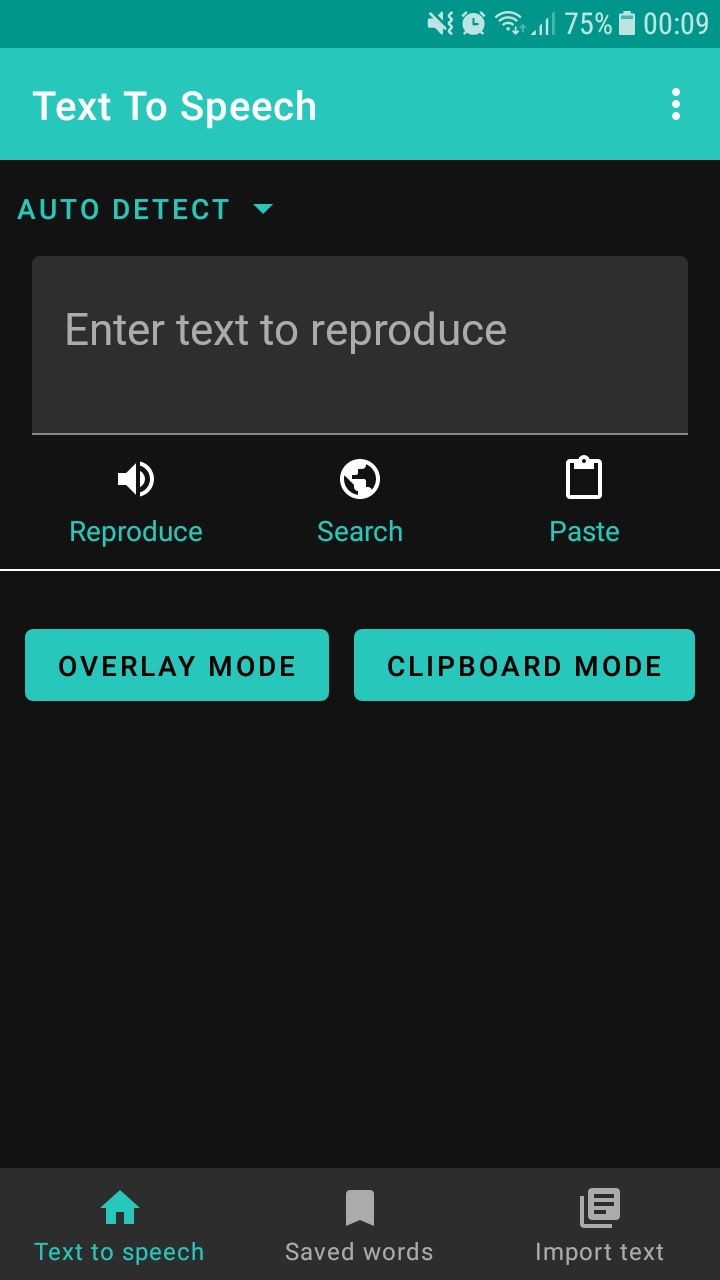
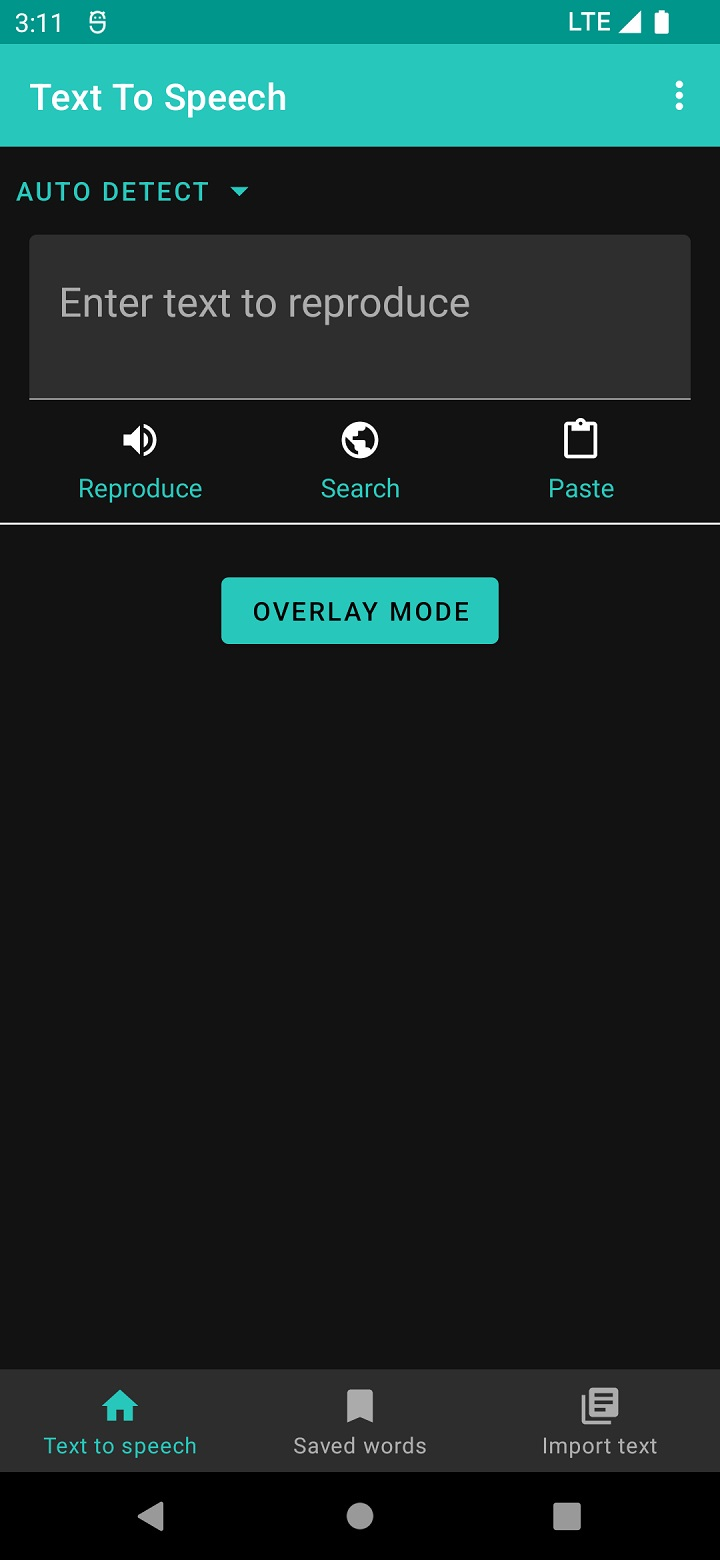
Updated README.md, removed clipboard mode and updated the screen shots.

diff --git a/README.md b/README.md
@@ -10,10 +10,10 @@ You can enter text or a link to a webpage in the main screen, multiple action ca
 
 <img src="readme_images/main_screen.jpg" alt="drawing" width="350"/>
 
-## Clipboard mode
-When you enable clipboard mode, you can use various features outside the app. When you highlight text and copy to the clipboard a dialog will show the Wiktionary definition (if available), the translation and links to other resources.
+## Get text information
+You can use various features outside the app. When you highlight text, the shown toolbar has a TTS option that will show the Wiktionary definition (if available), the translation, and links to other resources.
 
-<img src="readme_images/clipboard-mode-gif.gif" alt="drawing" width="350"/><br/>
+<img src="readme_images/highlight-text.gif" alt="drawing" width="350"/><br/>
 
 <p float="left">
 <img src="readme_images/process_text_dictionary.png" alt="drawing" width="350"/>
